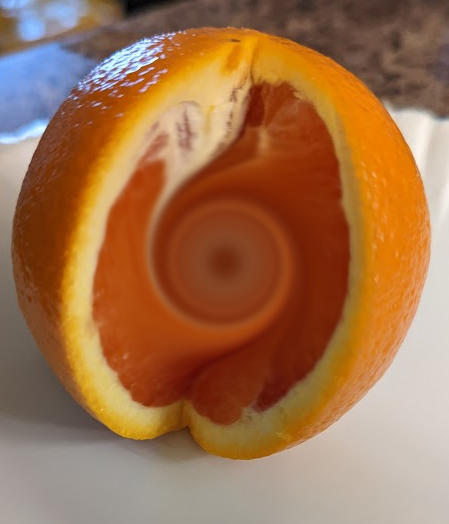
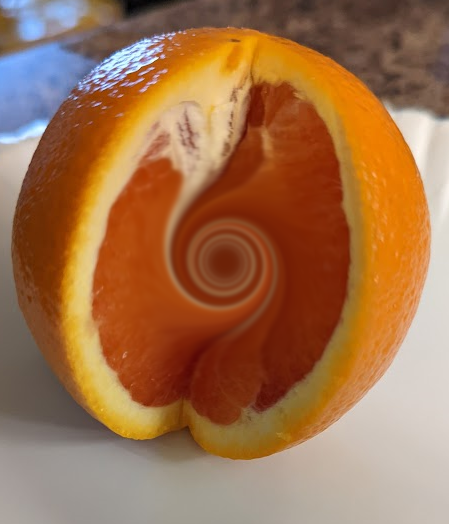
fix varying

Changed region(s): [[0.3118, 0.2137, 0.6548, 0.7023]]

diff --git a/salt_shaker/image_actions/swirl.py b/salt_shaker/image_actions/swirl.py
@@ -14,7 +14,7 @@ class BasicSwirl(ImageAction):
         processed_images: list[Image] = []
         for img in image_input:
             img.image_data = transform.swirl(img.image_data)
-            processed_images.append(img)
+            processed_images.append(img.clone())
 
         return ImageAction._unlistify_output(processed_images)
 
@@ -39,7 +39,7 @@ class VariableSwirl(ImageAction):
         for img in image_input:
             for i in range(0, depth):
                 img = basic_swirl.process(img)
-            processed_images.append(img)
+            processed_images.append(img.clone())
 
         return ImageAction._unlistify_output(processed_images)
 
@@ -65,7 +65,7 @@ class VaryingVariableSwirl(ImageAction):
         for img in image_input:
             for i in range(0, depth):
                 img = variable_swirl.process(img, i)
-                processed_images.append(img)
+                processed_images.append(img.clone())
 
         # _unlistify doesn't do much here, i guess if we have 1 img 1 depth
         return ImageAction._unlistify_output(processed_images)

diff --git a/salt_shaker/image.py b/salt_shaker/image.py
@@ -1,6 +1,7 @@
 from __future__ import annotations  # py>=3.7 - make factory return type hints work
 
 import os
+import copy
 
 from numpy import ndarray
 from skimage.io import imread, imsave
@@ -52,6 +53,9 @@ class Image:
             raise FileExistsError(f"file already exists [{file_path}]")
 
         imsave(file_path, self.image_data)
+
+    def clone(self):
+        return copy.deepcopy(self)
 
     @property
     def image_data(self) -> ndarray:
